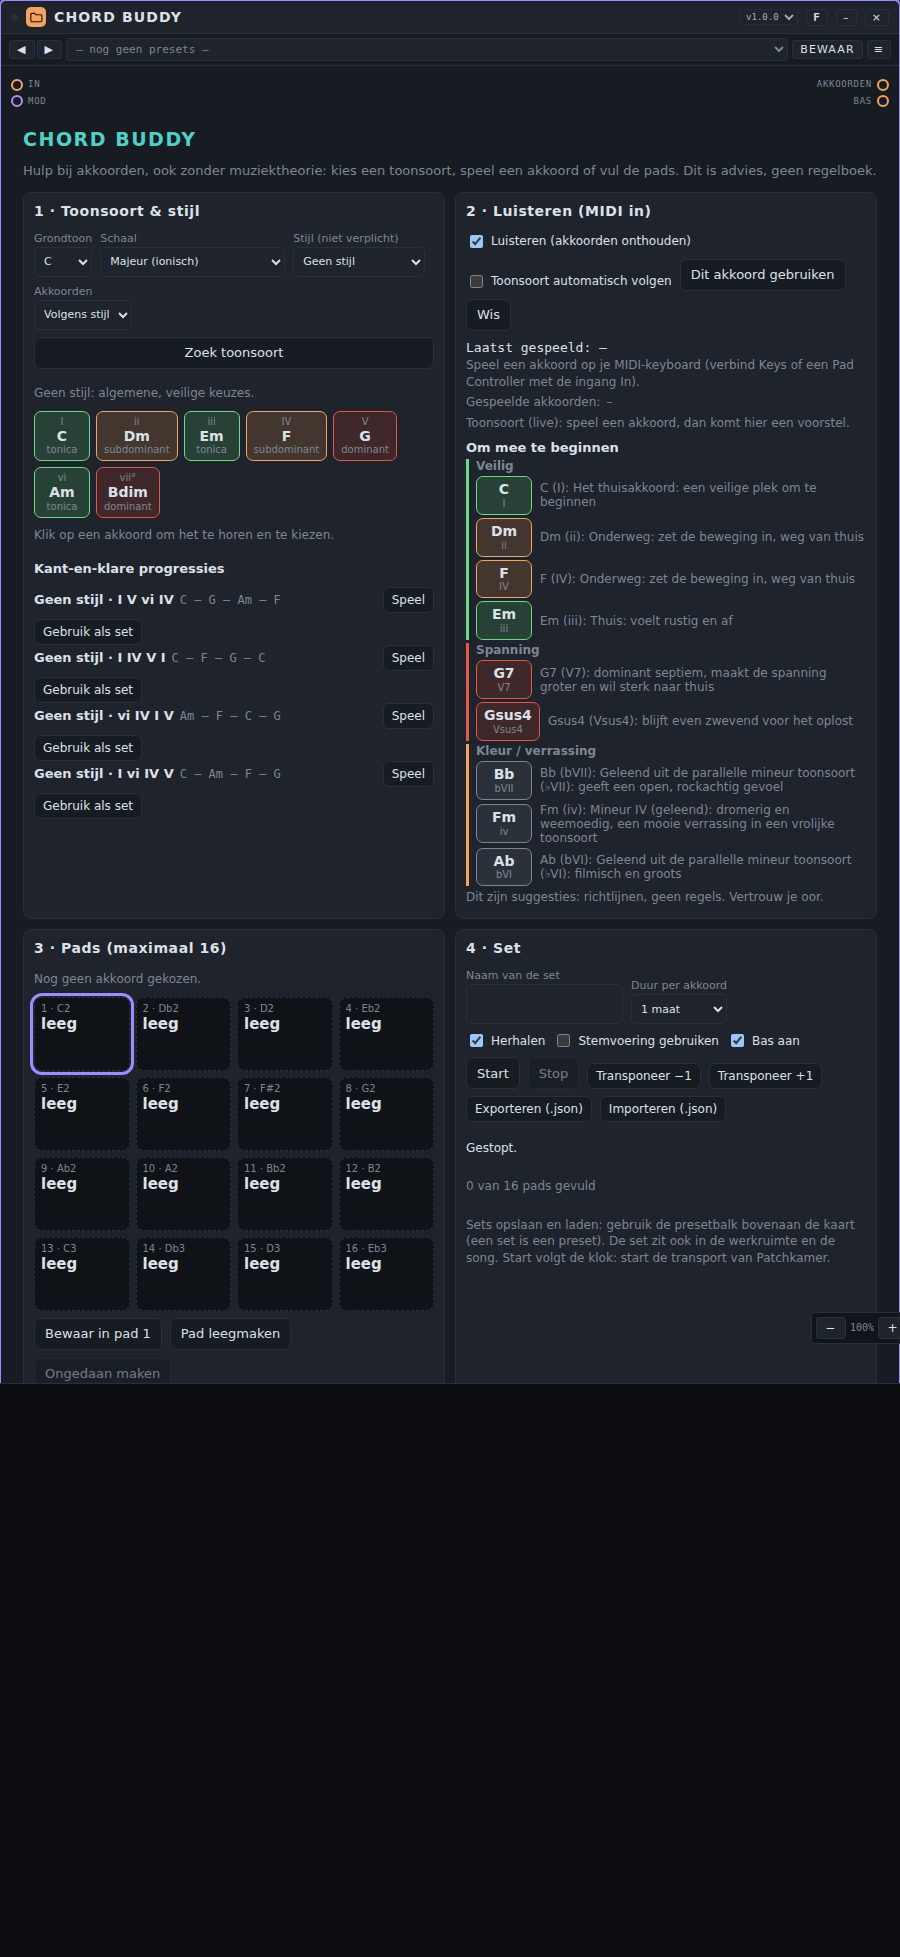
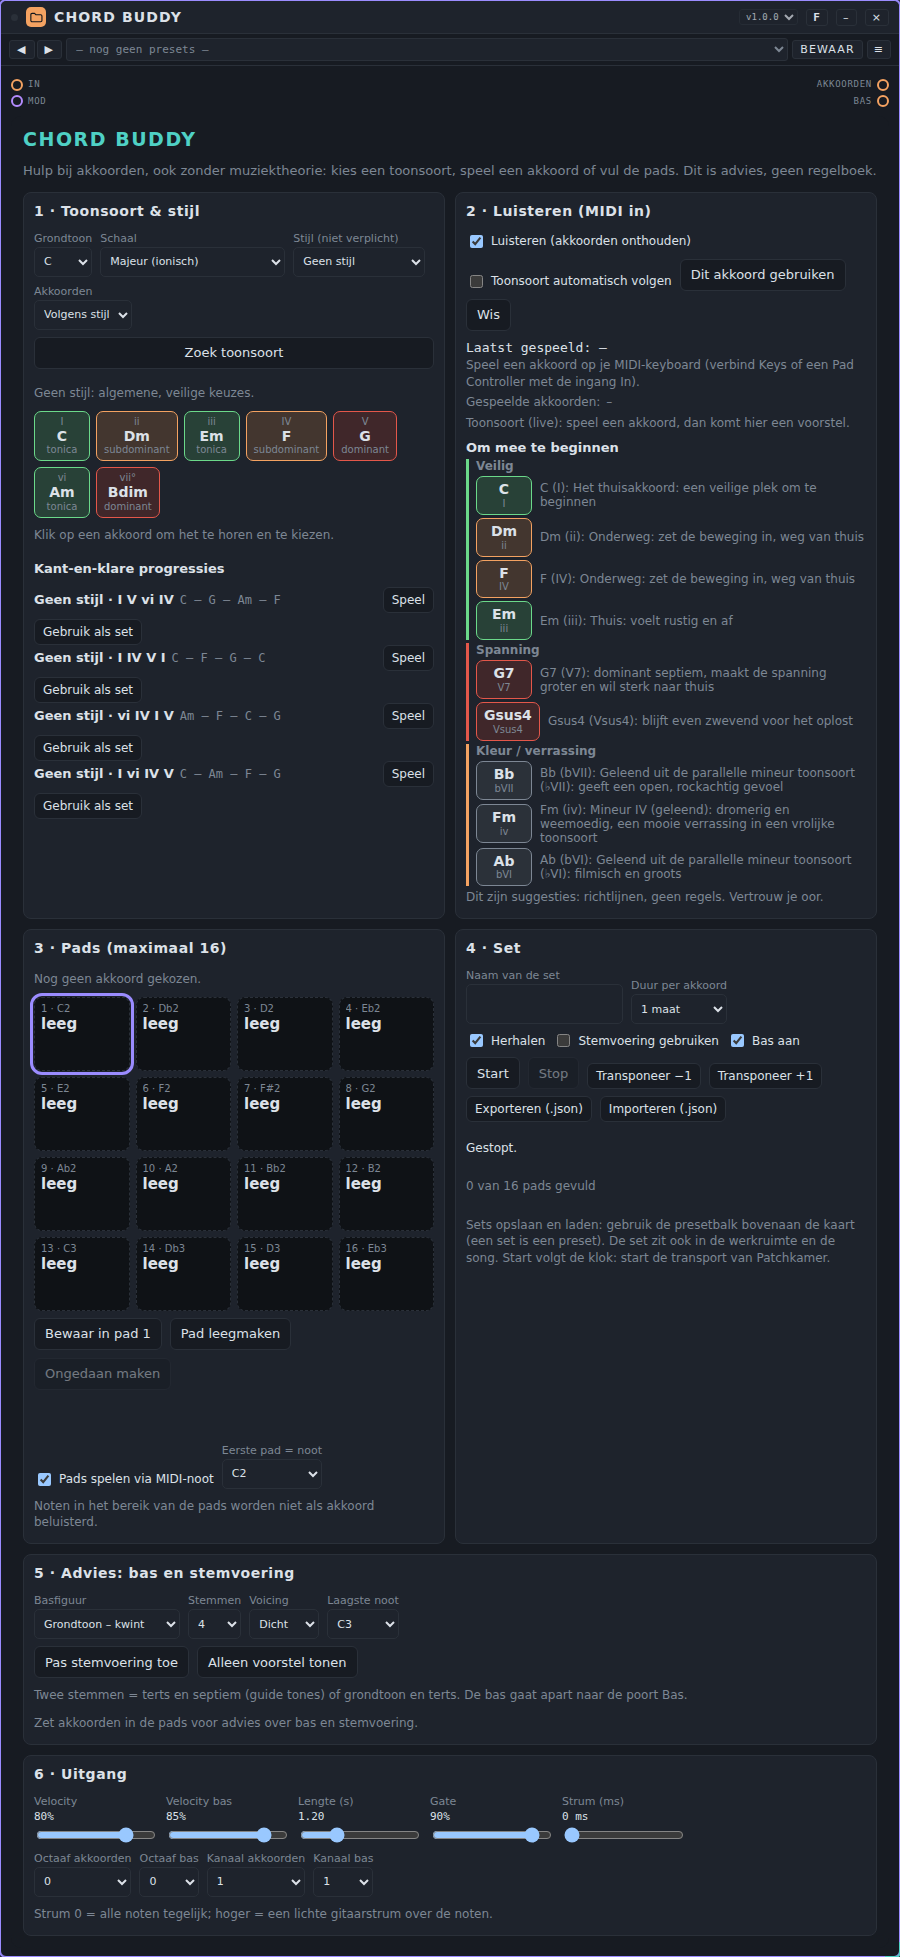
Handleiding: schermafbeeldingen van het plakmenu en Kopieer alle sporen, Chord Buddy en Balance EQ opgenomen (NL en EN), 0.16.1

Changed region(s): [[0.0, 0.6857, 1.0, 1.0], [0.9956, 0.6546, 1.0, 0.6857]]

diff --git a/docs/tools/make-screenshots.py b/docs/tools/make-screenshots.py
@@ -16,6 +16,7 @@ from playwright.sync_api import sync_playwright
 
 ROOT = os.path.abspath(os.path.join(os.path.dirname(__file__), '..', '..'))
 LANGS = [a for a in sys.argv[1:] if a in ('nl', 'en')] or ['nl', 'en']
+ONLY_CLIP = '--only-clip' in sys.argv   # alleen de afbeeldingen van het klembord (20 en 21, plus 18 en 19 in een hoog venster)
 ALSO = [a[len('--also='):] for a in sys.argv[1:] if a.startswith('--also=')]
 LOCALE = {'en': 'en-US', 'nl': 'nl-NL'}
 PLACE = re.compile('place|plaats', re.I)
@@ -95,6 +96,25 @@ def shots(browser, lang, OUT, LIB, BASE):
         if pg.errs: print('PAGINAFOUTEN', lang, pg.errs)
         pg.context.close()
 
+    def clip_docs():   # plakmenu (20) en Kopieer alle sporen in het plakmenu van de Clip Arranger (21); beeld 1400 breed
+        CP = re.compile('^(Kopieer|Copy)$', re.I); PL = re.compile('^(Plak|Paste)$', re.I)
+        pg = newpage(w=1400, h=780, libh=700, nopicker=True); load_lib(pg)
+        place(pg, 'Drum Kit'); pg.click('#libToggle'); pg.wait_for_timeout(800)
+        pg.locator('.card .bar .clipbtn', has_text=CP).first.click(); pg.wait_for_timeout(400)   # Drum Kit is de bron
+        pg.locator('.card .bar button', has_text='\u00d7').first.click(); pg.wait_for_timeout(500)
+        pg.click('#libToggle'); pg.wait_for_timeout(300); place(pg, 'Pulse Drums'); pg.click('#libToggle'); pg.wait_for_timeout(1000)
+        pg.locator('.card .bar .clipmore').first.click(); pg.wait_for_timeout(500)
+        pg.locator('.clipmenu input[type=checkbox]').nth(1).check(); pg.wait_for_timeout(200)   # Pas lengte aan de clip aan
+        pg.screenshot(path=OUT + '/20-paste-menu.png', clip={'x': 0, 'y': 0, 'width': 1400, 'height': 700}); done(pg)
+        pg = newpage(w=1400, h=900, libh=700, nopicker=True); load_lib(pg)
+        place(pg, 'Clip Arranger'); pg.click('#libToggle'); pg.wait_for_timeout(1000)
+        pg.locator('.card .bar .clipmore').first.click(); pg.wait_for_timeout(500)
+        pg.screenshot(path=OUT + '/21-copy-all-tracks.png', clip={'x': 0, 'y': 0, 'width': 1400, 'height': 780}); done(pg)
+        for dev, name in (('Chord Buddy', '18-chord-buddy'), ('Balance EQ', '19-balance-eq')):   # de hele kaart: een hoog venster, anders knipt de vloer hem af
+            pg = newpage(w=1400, h=2300, libh=700, nopicker=True); load_lib(pg); place(pg, dev); pg.click('#libToggle'); pg.wait_for_timeout(1500)
+            pg.locator('.card').first.screenshot(path=OUT + '/' + name + '.png'); done(pg)
+    if ONLY_CLIP: clip_docs(); print('klaar (klembord):', lang); return
+
     pg = newpage(); pg.screenshot(path=OUT + '/01-start.png'); done(pg)
     pg = newpage(nopicker=True); load_lib(pg); pg.screenshot(path=OUT + '/02-library.png')
     pg.click('#libCfgBtn'); pg.wait_for_timeout(400); pg.locator('#libwin').screenshot(path=OUT + '/10-library-layout.png'); done(pg)
@@ -141,9 +161,7 @@ def shots(browser, lang, OUT, LIB, BASE):
         sf = os.path.join(ROOT, 'skins', 'library', skinf + '.patchkamer-skin.json'); sid = json.load(open(sf))['id']
         menu_click(pg, '#skBtn'); pg.set_input_files('#skFile', sf); pg.wait_for_timeout(800); pg.is_visible('#skClose') and pg.click('#skClose'); pg.wait_for_timeout(300)
         pg.evaluate("sid=>{const s=document.querySelector('.sksel'); s.value=sid; s.dispatchEvent(new Event('change',{bubbles:true}))}", sid); pg.wait_for_timeout(1200)   # de keuzelijst Skin staat in het kaartmenu: zet hem direct; pg.locator('.card').first.screenshot(path=OUT + '/' + name + '.png'); done(pg)
-    for dev, name in (('Chord Buddy', '18-chord-buddy'), ('Balance EQ', '19-balance-eq')):
-        pg = newpage(h=1500, nopicker=True); load_lib(pg); place(pg, dev); pg.click('#libToggle'); pg.wait_for_timeout(1500)
-        pg.locator('.card').first.screenshot(path=OUT + '/' + name + '.png'); done(pg)
+    clip_docs()
     print('klaar:', lang, len(os.listdir(OUT)), 'afbeeldingen')
 
 if __name__ == '__main__':

diff --git a/docs/USER-MANUAL_NL.md b/docs/USER-MANUAL_NL.md
@@ -206,6 +206,12 @@ Apparaten zijn er in soorten. Elke soort heeft een eigen README en een eigen geb
 | **Modulatoren** | De regelaars van andere apparaten bewegen | Drift, Follower, LFO, Macro, Multi-Segment Envelope, Swell | [Handleiding modulatoren](modulators/USER-MANUAL_NL.md) · [README](../devices/modulators/README_NL.md) |
 | **Tools** | Spelen, opnemen, meten en notities maken | Control Surface, Keys / MIDI, Metronome, MIDI Hub, Multitrack, Notes, Pad Controller, Recorder, Scope | [Handleiding tools](tools/USER-MANUAL_NL.md) · [README](../devices/tools/README_NL.md) |
 
+Twee voorbeelden van een kaart in de bibliotheek: **Chord Buddy** (soort Tools: hulp bij akkoorden, ook zonder muziektheorie) en **Balance EQ** (soort Mastering: een equalizer met vijf tot twaalf banden).
+
+![De kaart van Chord Buddy](images/nl/18-chord-buddy.png)
+
+![De kaart van Balance EQ](images/nl/19-balance-eq.png)
+
 **AI-chat (ingebouwd).** Naast de soorten hierboven heeft de bibliotheek één apparaat dat bij Patchkamer zelf hoort: **AI Chat**, onder *Meten & hulpmiddelen*. Plaats het en vraag in je eigen woorden om een device, een tunepack, een presetpack of een song. Het heeft een aanbieder, een API-sleutel en een model nodig onder **Instellingen → AI-assistent**; de aanbieder rekent het gebruik aan jou aan. De AI leest de documentatie van deze repository op GitHub zelf (de AGENTS.md-bestanden, het contract, de stijlgidsen) en geeft alles als **voorstel**: **Toevoegen** zet een device in de bibliotheek en op de vloer, of een tune- of presetpack in je bibliotheken, en **Openen** opent een song in een nieuwe werkruimte-tab. Zonder jouw klik wordt niets toegevoegd. Lees de code van een device voor je het toevoegt: een device is niet afgeschermd van de pagina, en de controle op de kaart waarschuwt alleen voor netwerk, opslag en eval. Het gesprek blijft staan als je van werkruimte wisselt; **Nieuw gesprek** begint opnieuw. Niet getest met echte aanbieders of sleutels: de werking met alle drie de formaten is getest met nagebootste antwoorden. De AI kan niet luisteren: vertel wat je hoort.
 
 Hun kant-en-klare klanken en instellingen hebben eigen handleidingen: [Tunes](tunes/USER-MANUAL_NL.md) voor apparaten die geluid maken en [Presets](presets/USER-MANUAL_NL.md) voor de rest (zie ook onderdeel 7).
@@ -225,6 +231,10 @@ Een apparaat dat een patroon of clip kan delen, krijgt in de balk van zijn kaart
 - **Plakopties.** Naast **Plak** staat een kleine pijl **▾** (of klik met de rechtermuisknop op Plak; met het toetsenbord ga je naar de pijl en druk je op Enter). Het menu geldt voor één plak en onthoudt niets. **Octaaf** verschuift de noten van de clip met −4 tot +4 octaven vóór het plakken (noten buiten 0 tot 127 vallen weg en de melding zegt hoeveel; alleen bij noten). **Uitlijnen op volgorde** zet baan 1 van de clip op baan 1 van het doel, baan 2 op baan 2, enzovoort, in plaats van op instrument; handig voor Latin Percussion en Click Synth, die met een gewone drumclip anders niets krijgen (alleen bij drums). **Pas lengte aan de clip aan** geeft het doel de lengte van de clip; dat werkt bij een apparaat dat per patroon zijn eigen lengte heeft en bij Drum Kit en Pulse Drums, waar de lengte voor alle patronen geldt en dus ook voor de andere patronen verandert (bij Pulse Drums krijgen alle kanalen dezelfde lengte, dus een polymeter vervalt; Ongedaan maken zet het terug). Bij een andere gedeelde of een vaste lengte meldt Patchkamer dat het de lengte niet kon veranderen. **Plak direct** plakt meteen, ook als de klok loopt. Na elke plak werkt **Ongedaan maken** gewoon.
 - **Gelijke apparaten verliezen niets.** Plak je een clip in een apparaat van dezelfde soort als waar je hem uit kopieerde (Drum Kit naar Drum Kit, Tracker naar Tracker), dan gaan ook de eigen extra's mee, zoals effectkolommen of conditiestappen, en blijft de clip gelijk. Pattern Tracker en Pattern Playlist tellen hierbij als dezelfde soort. In een ander soort apparaat laat Patchkamer die extra's weg.
 - **Ongedaan maken.** Na het plakken staat in de melding een knop **Ongedaan maken**, ongeveer vijftien seconden lang. **Ctrl+Z** doet hetzelfde in die tijd.
+
+![Het plakmenu van Pulse Drums, met de optie Pas lengte aan de clip aan](images/nl/20-paste-menu.png)
+
+![Het menu naast Plak op de Clip Arranger, met Kopieer alle sporen](images/nl/21-copy-all-tracks.png)
 
 Op een telefoon werken de knoppen met een tik (ook de pijl voor de plakopties); sneltoetsen heb je daar niet nodig. De knoppen staan in de kaartbalk, dus ze zijn niet bereikbaar zolang de kaart tot een icoon is geminimaliseerd.
 

diff --git a/docs/USER-MANUAL_EN.md b/docs/USER-MANUAL_EN.md
@@ -206,6 +206,12 @@ Devices come in kinds. Every kind has its own README and its own user manual, wi
 | **Modulators** | Move the controls of other devices | Drift, Follower, LFO, Macro, Multi-Segment Envelope, Swell | [Modulators manual](modulators/USER-MANUAL_EN.md) · [README](../devices/modulators/README.md) |
 | **Tools** | Play, record, measure and take notes | Control Surface, Keys / MIDI, Metronome, MIDI Hub, Multitrack, Notes, Pad Controller, Recorder, Scope | [Tools manual](tools/USER-MANUAL_EN.md) · [README](../devices/tools/README.md) |
 
+Two examples of a card in the library: **Chord Buddy** (kind Tools: help with chords, even without music theory) and **Balance EQ** (kind Mastering: an equalizer with five to twelve bands).
+
+![The Chord Buddy card](images/en/18-chord-buddy.png)
+
+![The Balance EQ card](images/en/19-balance-eq.png)
+
 **AI Chat (built in).** Besides the kinds above, the library has one device that comes with Patchkamer itself: **AI Chat**, under *Metering & utilities*. Place it, and ask in your own words for a device, a tune pack, a preset pack or a song. It needs a provider, an API key and a model under **Settings → AI assistant**; the provider bills the usage to you. The AI reads the documentation of this repository on GitHub by itself (the AGENTS.md files, the contract, the style guides) and hands you everything as a **proposal**: **Add** puts a device in the library and on the floor, or a tune or preset pack in your libraries, and **Open** opens a song in a new workspace tab. Nothing is added without your click. Read the code of a device before you add it: a device is not isolated from the page, and the check on the card only warns about network, storage and eval. The conversation stays when you switch workspace; **New chat** starts again. Not tested with real providers or keys: the flow with all three provider formats was tested with simulated answers. The AI cannot listen: tell it what you hear.
 
 Their ready-made sounds and settings have their own manuals: [Tunes](tunes/USER-MANUAL_EN.md) for devices that make sound and [Presets](presets/USER-MANUAL_EN.md) for the rest (also section 7).
@@ -225,6 +231,10 @@ A device that can share a pattern or clip gets two buttons in its card bar: **Co
 - **Paste options.** Next to **Paste** is a small arrow **▾** (or right-click Paste; with the keyboard, go to the arrow and press Enter). The menu applies to one paste and remembers nothing. **Octave** moves the clip's notes by −4 to +4 octaves before pasting (notes outside 0 to 127 are dropped and the message says how many; notes only). **Align by order** puts lane 1 of the clip on lane 1 of the target, lane 2 on lane 2, and so on, instead of matching by instrument; handy for Latin Percussion and Click Synth, which otherwise get nothing from an ordinary drum clip (drums only). **Match the clip's length** gives the target the clip's length; that works on a device with its own length per pattern and on Drum Kit and Pulse Drums, where the length applies to all patterns and so changes for the other patterns too (Pulse Drums gives all channels the same length, so a polymeter is lost; Undo restores it). With any other shared or a fixed length Patchkamer says it could not change the length. **Paste now** pastes at once, even while the clock runs. **Undo** works after every paste as usual.
 - **Like devices lose nothing.** If you paste a clip into a device of the same kind it was copied from (Drum Kit to Drum Kit, Tracker to Tracker), the device's own extras come along too, such as effect columns or condition steps, and the clip stays identical. Pattern Tracker and Pattern Playlist count as the same kind here. In a different kind of device Patchkamer leaves those extras out.
 - **Undo.** After pasting, the message shows an **Undo** button for about fifteen seconds. **Ctrl+Z** does the same in that time.
+
+![The paste menu of Pulse Drums, with the option Match the clip's length](images/en/20-paste-menu.png)
+
+![The menu next to Paste on the Clip Arranger, with Copy all tracks](images/en/21-copy-all-tracks.png)
 
 On a phone the buttons work with a tap (the arrow for the paste options too); you do not need shortcuts there. The buttons live in the card bar, so they are out of reach while the card is minimized to an icon.
 

diff --git a/CHANGELOG_NL.md b/CHANGELOG_NL.md
@@ -4,6 +4,11 @@
 
 Alle belangrijke wijzigingen in Patchkamer (de host en de desktop-app) per versie. Het versienummer staat in `patchkamer/version.json` en onder **Instellingen > Versie**. Oudere geschiedenis staat in het git-log.
 
+## 0.16.1 (2026-11-09)
+
+### Gewijzigd
+- **Handleiding: schermafbeeldingen van het klembord.** Het hoofdstuk over patronen kopiëren en plakken toont nu het plakmenu (Pulse Drums, met de optie *Pas lengte aan de clip aan*) en het menu naast Plak op de Clip Arranger met *Kopieer alle sporen* (meerdere sporen tegelijk, contract v1.24). De bestaande schermafbeeldingen van Chord Buddy en Balance EQ staan nu ook in de handleiding en zijn opnieuw gemaakt als hele kaart. `docs/tools/make-screenshots.py --only-clip` maakt alleen deze vier. In beide talen.
+
 ## 0.16.0 (2026-11-09)
 
 ### Toegevoegd

diff --git a/CHANGELOG.md b/CHANGELOG.md
@@ -4,6 +4,11 @@
 
 All notable changes to Patchkamer (the host and the desktop app) per version. The version number is in `patchkamer/version.json` and shown under **Settings > Version**. Older history is in the git log.
 
+## 0.16.1 (2026-11-09)
+
+### Changed
+- **User manual: screenshots of the clipboard.** The chapter on copying and pasting patterns now shows the paste menu (Pulse Drums, with the option *Match the clip's length*) and the menu next to Paste on the Clip Arranger with *Copy all tracks* (multiple tracks at once, contract v1.24). The existing screenshots of Chord Buddy and Balance EQ are now in the manual too, and are regenerated as full cards. `docs/tools/make-screenshots.py --only-clip` makes just these four. Both languages.
+
 ## 0.16.0 (2026-11-09)
 
 ### Added
